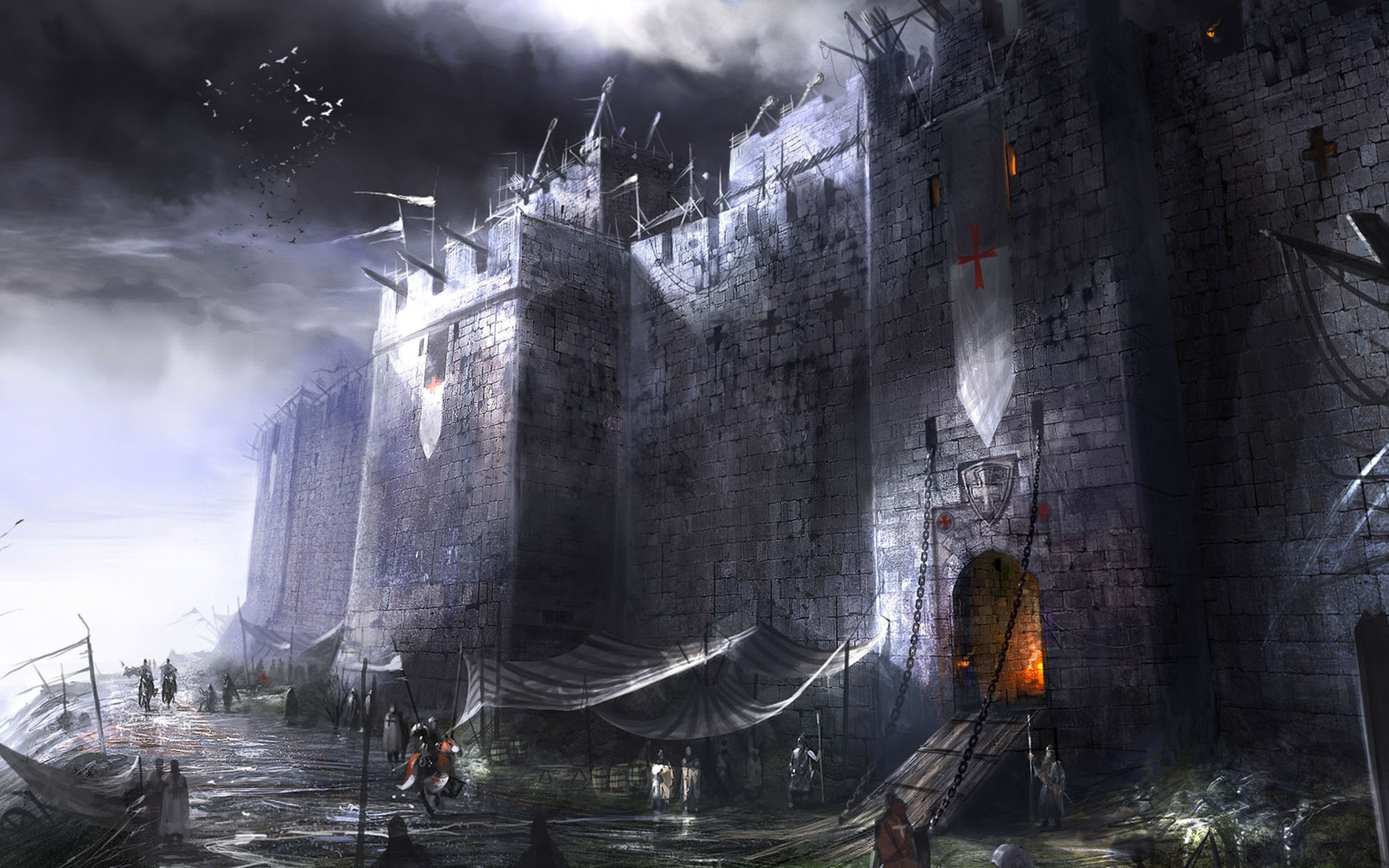
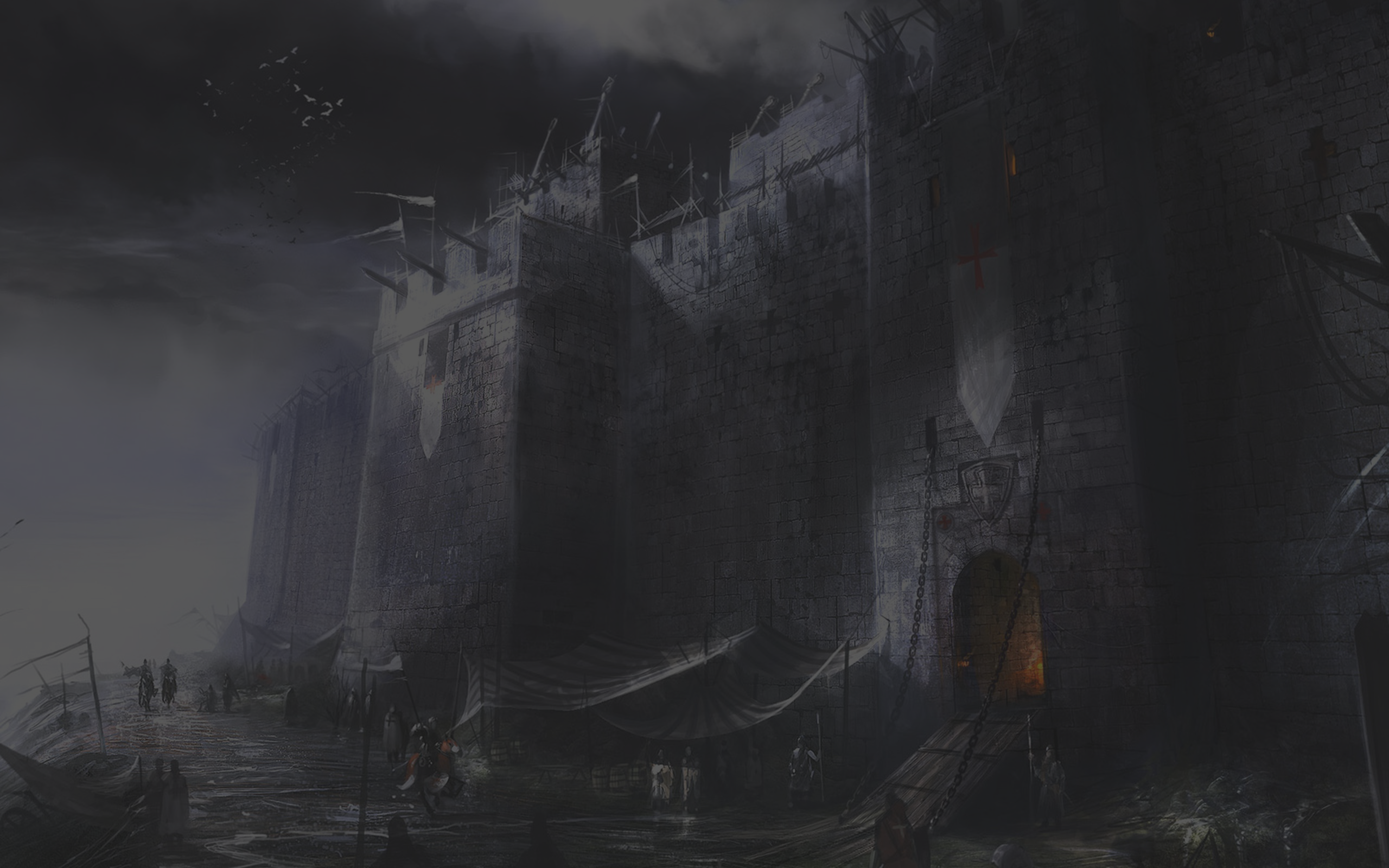
added styling

diff --git a/src/app/components/characters/characters.component.ts b/src/app/components/characters/characters.component.ts
@@ -39,14 +39,14 @@ export class CharactersComponent implements OnInit {
   }
 
   private addCharacterImages () {
-    this.goodCharacters.push(['merlin','../../../assets/images/Merlin.png'])
-    this.goodCharacters.push(['percival','../../../assets/images/Percival.png'])
-    this.goodCharacters.push(['minionG','../../../assets/images/MinionG.png'])
-    this.badCharacters.push(['mordred','../../../assets/images/Mordred.png'])
-    this.badCharacters.push(['morgana','../../../assets/images/Morgana.png'])
-    this.badCharacters.push(['oberon','../../../assets/images/Oberon.png'])
-    this.badCharacters.push(['assassin','../../../assets/images/Assassin.png'])
-    this.specialCharacters.push(['lancelot','../../../assets/images/Lancelot.png'])
-    this.specialCharacters.push(['lakeLady','../../../assets/images/LakeLady.png'])     
+    this.goodCharacters.push(['merlin','../../website/assets/images/Merlin.png'])
+    this.goodCharacters.push(['percival','../../website/assets/images/Percival.png'])
+    this.goodCharacters.push(['minionG','../../website/assets/images/MinionG.png'])
+    this.badCharacters.push(['mordred','../../website/assets/images/Mordred.png'])
+    this.badCharacters.push(['morgana','../../website/assets/images/Morgana.png'])
+    this.badCharacters.push(['oberon','../../website/assets/images/Oberon.png'])
+    this.badCharacters.push(['assassin','../../website/assets/images/Assassin.png'])
+    this.specialCharacters.push(['lancelot','../../website/assets/images/Lancelot.png'])
+    this.specialCharacters.push(['lakeLady','../../website/assets/images/LakeLady.png'])     
   }
 }

diff --git a/src/app/components/narration/source.enum.ts b/src/app/components/narration/source.enum.ts
@@ -1,15 +1,15 @@
 export enum source {
-    beginning = "../../../assets/narrations/Beginning.mp3",
-    lancelot = '../../../assets/narrations/Lancelot.mp3',
-    minions = "../../../assets/narrations/Evil1.mp3",
-    mordred = "../../../assets/narrations/Evil2.mp3",
-    oberon = "../../../assets/narrations/Evil3.mp3",
-    allEvil = "../../../assets/narrations/Evil4.mp3",
-    closeEyes = "../../../assets/narrations/CloseEyes.mp3",
-    merlin = "../../../assets/narrations/Merlin.mp3",
-    thumbsDown = "../../../assets/narrations/ThumbsDown.mp3",
-    percival = "../../../assets/narrations/Percival.mp3",
-    ending = "../../../assets/narrations/End.mp3"
+    beginning = "../../website/assets/narrations/Beginning.mp3",
+    lancelot = '../../website/assets/narrations/Lancelot.mp3',
+    minions = "../../website/assets/narrations/Evil1.mp3",
+    mordred = "../../website/assets/narrations/Evil2.mp3",
+    oberon = "../../website/assets/narrations/Evil3.mp3",
+    allEvil = "../../website/assets/narrations/Evil4.mp3",
+    closeEyes = "../../website/assets/narrations/CloseEyes.mp3",
+    merlin = "../../website/assets/narrations/Merlin.mp3",
+    thumbsDown = "../../website/assets/narrations/ThumbsDown.mp3",
+    percival = "../../website/assets/narrations/Percival.mp3",
+    ending = "../../website/assets/narrations/End.mp3"
 
 
 }

diff --git a/src/app/components/home/home.component.html b/src/app/components/home/home.component.html
@@ -7,7 +7,7 @@
             Before you dive into the other components of this website, get to know me a little better!</p>
 
         <div class=info-section>
-            <div class="image"><img src="../../../assets/me/me.png"></div>
+            <div class="image"><img src="../../website/assets/me/me.png"></div>
             <div class="info">
                 <h5 class="title">Facts About Me: </h5>
                 <ul>
@@ -25,7 +25,7 @@
                 <ul>
                     <li> <a target="_blank" href="https://linkedin.com/in/sabrina-lu09">LinkedIn</a></li>
                     <li><a target="_blank" href="https://github.com/sabrina-lu">GitHub</a></li>
-                    <li><a target="_blank" href="../../../assets/me/resume.pdf">My Resume</a></li>
+                    <li><a target="_blank" href="../../website/assets/me/resume.pdf">My Resume</a></li>
                 </ul>
             </div>
         </div>

diff --git a/src/app/components/instructions/instructions.component.html b/src/app/components/instructions/instructions.component.html
@@ -48,8 +48,8 @@
       Keep in mind that if players disapprove the suggested team 5 times in a row, then Evil automatically wins the game.
     </p>
 
-    <img class="photo" src="../../../assets/images/approve.png">
-    <img class="photo" src="../../../assets/images/disapprove.png">
+    <img class="photo" src="../../website/assets/images/approve.png">
+    <img class="photo" src="../../website/assets/images/disapprove.png">
 
     <h5>Going on the Quest:</h5>
     <p>
@@ -61,8 +61,8 @@
       If there is one or more fail cards, then the quest fails (Evil wins this round).
     </p>
 
-    <img class="photo" src="../../../assets/images/success.png">
-    <img class="photo" src="../../../assets/images/fail.png">
+    <img class="photo" src="../../website/assets/images/success.png">
+    <img class="photo" src="../../website/assets/images/fail.png">
 
     <h5>At the end of the game: </h5>
     <p>

diff --git a/src/app/components/header/header.component.html b/src/app/components/header/header.component.html
@@ -1,6 +1,6 @@
 <div class="header-container">
     <div class="header">
-        <div><a href='avalon'><img class="header-logo" src="../../../assets/images/logo.png" /></a>
+        <div><a href='avalon'><img class="header-logo" src="../../website/assets/images/logo.png" /></a>
         </div>
         <div *ngIf="isCpuSize()" class="header-tab">
             <ng-container [ngTemplateOutlet]="pages"></ng-container>

diff --git a/src/app/app.component.css b/src/app/app.component.css
@@ -1,5 +1,5 @@
 .background-image {
-  background-image: url("../assets/images/castle2.png");
+  background-image: url("../assets/images/castle.png");
   background-repeat: no-repeat; 
   background-size: cover;
   height: 100vh;
